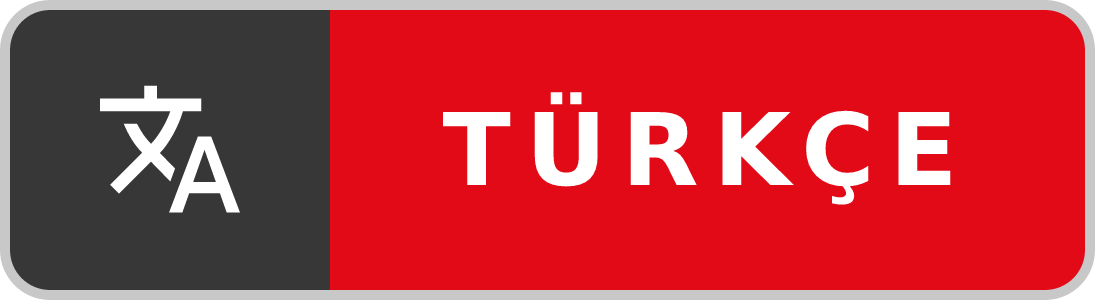
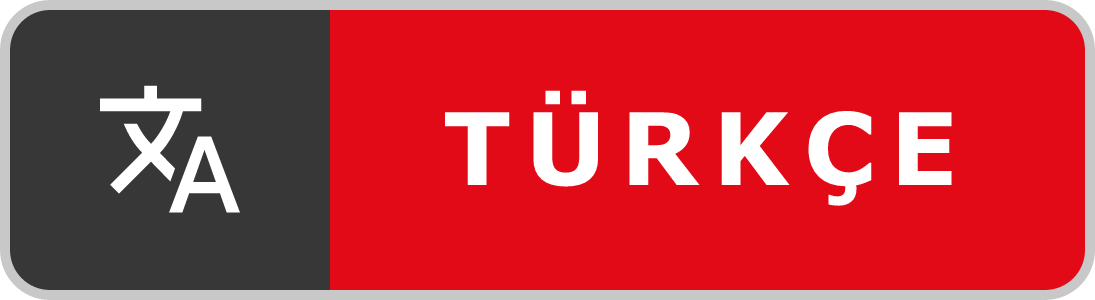
updated: badge generation, actions and styles

diff --git a/src/hooks/updateBadges.ts b/src/hooks/updateBadges.ts
@@ -8,45 +8,72 @@ const IMAGES_PATH = path.join(__dirname, "..", "..", "images");
 
 // Dynamics
 fetchModifySvg(
-  "https://img.shields.io/github/release/Codemos-Inc/Codemos-Modern.svg?labelColor=373737&color=45AA41&label=&logo=github&logoColor=white&style=for-the-badge",
+  "https://img.shields.io/github/release/Codemos-Inc/Codemos-Modern.svg?labelColor=373737&color=45AA41&label=&logo=github&logoColor=%23FFFFFFC7&style=for-the-badge",
   path.join(IMAGES_PATH, "badge-release.svg"),
+  true,
+  false,
 );
 fetchModifySvg(
-  "https://img.shields.io/badge/-v1.85+-4B9ECD.svg?labelColor=373737&label=&logo=visualstudiocode&logoColor=white&style=for-the-badge",
+  "https://img.shields.io/badge/-v1.85+-4B9ECD.svg?labelColor=373737&label=&logo=visualstudiocode&logoColor=%23FFFFFFC7&style=for-the-badge",
   path.join(IMAGES_PATH, "badge-vscode.svg"),
+  true,
+  false,
 );
 fetchModifySvg(
[2 lines of base64/hex data omitted]
   path.join(IMAGES_PATH, "badge-downloads.svg"),
+  true,
+  false,
 );
 fetchModifySvg(
[2 lines of base64/hex data omitted]
   path.join(IMAGES_PATH, "badge-sponsors.svg"),
+  true,
+  false,
 );
 fetchModifySvg(
[2 lines of base64/hex data omitted]
   path.join(IMAGES_PATH, "badge-rating.svg"),
+  true,
+  true,
 );
 
 // Locales
 fetchModifySvg(
[2 lines of base64/hex data omitted]
   path.join(IMAGES_PATH, "badge-loc-en.svg"),
+  false,
+  false,
+  "#FFFFFF",
 );
 fetchModifySvg(
[2 lines of base64/hex data omitted]
   path.join(IMAGES_PATH, "badge-loc-zh-cn.svg"),
+  false,
+  false,
+  "#FFFF00",
+  true,
 );
 fetchModifySvg(
[2 lines of base64/hex data omitted]
   path.join(IMAGES_PATH, "badge-loc-tr.svg"),
+  false,
+  false,
+  "#FFFFFF",
 );
 
 const SVG_NS = "http://www.w3.org/2000/svg";
 const cPathName = "belma-karacayir";
 const ZOOM = 10;
 
-function fetchModifySvg(url: string, path: string): void {
+function fetchModifySvg(
+  url: string,
+  path: string,
+  darkText: boolean,
+  isRatingBadge: boolean,
+  hexText?: string,
+  needsNotoSansSC?: boolean,
+): void {
   axios
     .get(url)
     .then(async function (response) {
@@ -56,6 +83,42 @@ function fetchModifySvg(url: string, path: string): void {
 
         // Take the original svg
         const originalSvg = doc.documentElement;
+
+        // Dark/Light text
+        if (hexText) {
+          // Change right side text color to black
+          const textElement = doc.querySelector("text");
+          textElement!.setAttribute("fill", hexText);
+        } else if (darkText) {
+          // Change right side text color to black
+          const textElement = doc.querySelector("text");
+          textElement!.setAttribute("fill", "#000000E6");
+        } else {
+          // Change right side text color to white
+          const textElement = doc.querySelector("text");
+          textElement!.setAttribute("fill", "#FFFFFFC7");
+        }
+
+        // Noto Sans SC
+        if (needsNotoSansSC) {
+          doc
+            .querySelector("[font-family]")!
+            .setAttribute("font-family", "Noto Sans SC");
+        }
+
+        // If the badge is the rating badge, strip how many people rated
+        if (isRatingBadge) {
+          const textElement = doc.querySelector("text");
+          const text = textElement!.textContent;
+          const modifiedText = text!.substring(0, text!.indexOf(" "));
+          textElement!.textContent = modifiedText;
+          textElement!.setAttribute("textLength", "380");
+          textElement!.setAttribute("x", "440");
+          const parent = textElement!.parentElement;
+          parent!.setAttribute("text-anchor", "start");
+          const grandparent = parent!.parentElement;
+          grandparent!.setAttribute("width", "94");
+        }
 
         // Calculate the new width and height
         const originalWidth = parseFloat(

diff --git a/README.md b/README.md
@@ -8,19 +8,19 @@
 
 # **Codemos Modern**
 
-<a href="https://github.com/Codemos-Inc/Codemos-Modern/releases/latest"><img src="images/badge-release.png" height="30" alt="Latest release"></a>&nbsp;
-<a href="https://code.visualstudio.com/updates/"><img src="images/badge-vscode.png" height="30" alt="Supported VS Code release"></a>&nbsp;
-<a href="https://marketplace.visualstudio.com/items?itemName=Codemos.codemos-modern"><img src="images/badge-downloads.png" height="30" alt="Download count"></a>&nbsp;
-<a href="https://github.com/sponsors/EmrecanKaracayir"><img src="images/badge-sponsors.png" height="30" alt="Sponsor count"></a>&nbsp;
-<a href="https://marketplace.visualstudio.com/items?itemName=Codemos.codemos-modern&ssr=false#review-details"><img src="images/badge-rating.png" height="30" alt="Rating"></a>
+<a href="https://github.com/Codemos-Inc/Codemos-Modern/releases/latest"><img src="images/badge-release.png" height="32" alt="Latest release"></a>&nbsp;
+<a href="https://code.visualstudio.com/updates/"><img src="images/badge-vscode.png" height="32" alt="Supported VS Code release"></a>&nbsp;
+<a href="https://marketplace.visualstudio.com/items?itemName=Codemos.codemos-modern"><img src="images/badge-downloads.png" height="32" alt="Download count"></a>&nbsp;
+<a href="https://github.com/sponsors/EmrecanKaracayir"><img src="images/badge-sponsors.png" height="32" alt="Sponsor count"></a>&nbsp;
+<a href="https://marketplace.visualstudio.com/items?itemName=Codemos.codemos-modern&ssr=false#review-details"><img src="images/badge-rating.png" height="32" alt="Rating"></a>
 
 <div style="margin-bottom: 16px;"></div>
 
 Innovative, modern theme suite/hub for VS Code
 
-<img src="images/badge-loc-en.png" height="26" alt="English (US)">&nbsp;
-<img src="images/badge-loc-zh-cn.png" height="26" alt="Simplified Chinese">&nbsp;
-<img src="images/badge-loc-tr.png" height="26" alt="Turkish">
+<img src="images/badge-loc-en.png" height="28" alt="English (US)">&nbsp;
+<img src="images/badge-loc-zh-cn.png" height="28" alt="Simplified Chinese">&nbsp;
+<img src="images/badge-loc-tr.png" height="28" alt="Turkish">
 
 ![overview](images/header-1.png)
 
